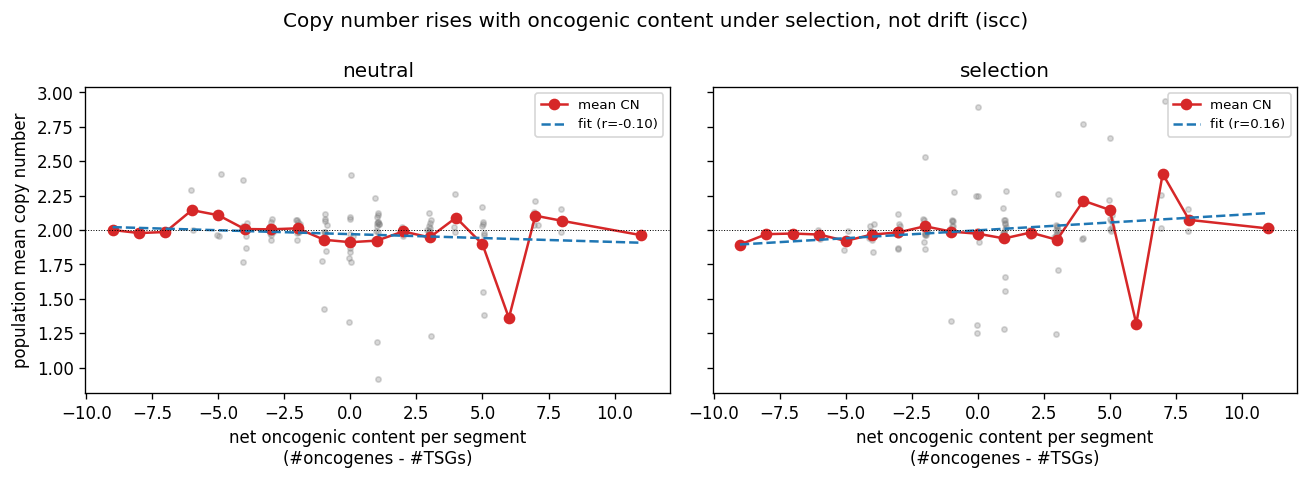
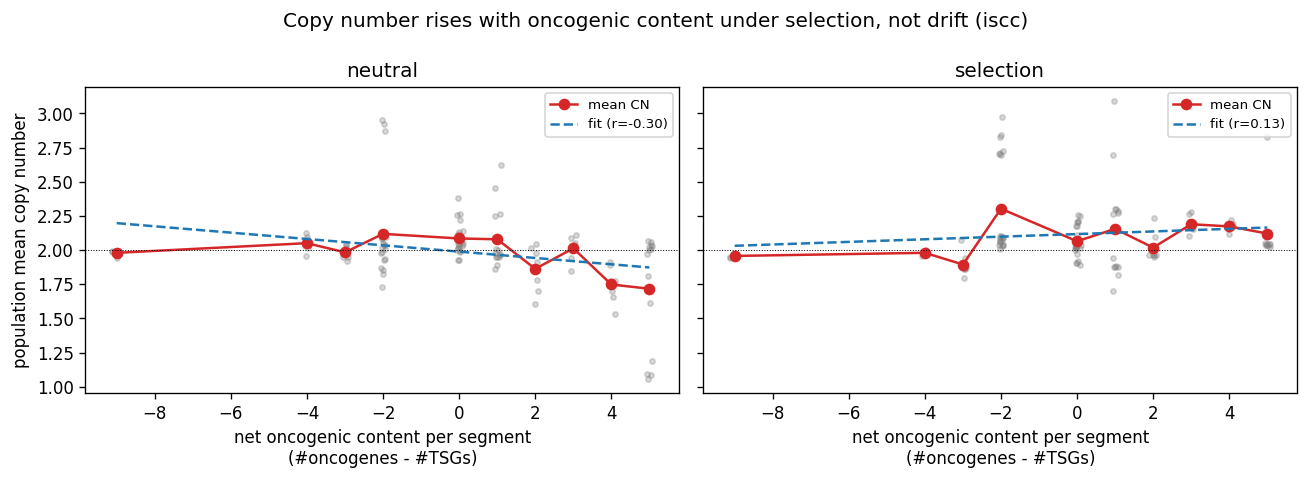
validation: regenerate assay figures for the crowding fix
Re-run the assay data-generation validations against the density-dependent crowding
engine and regenerate their manuscript figures. Config touch-ups where the capped
tumour changed the signal:

- cna: emit CNA-heavy events (cnv_prob 0.8) and stronger selection (driver_effects
  1.6) so the copy-number selection signature is measurable -- selection now
  amplifies oncogene-rich segments (corr +0.14) vs neutral (~-0.30). Well-mixed
  (carrying_capacity=None) for an unbounded selective population, as in test_cna.
- treatment: carrying_capacity 3 -> 8 (the crowding death ramp is steep at very
  small K, so K=3 drove even the untreated tumour extinct). Story restored: none
  grows (~190), continuous eradicates (0), adaptive controls (~35) with ~half the
  drug (434 vs 899 dosed steps).
- dna / scrna_snv / sampling: seed a founder cluster (initial_cancer_cells=5) so the
  tumour establishes; signals hold (HG002/DLP coverage fits; scRNA SNV detection
  rate falls with obs_fidelity; biopsy clone/liquid panels).
- snv (1/f R^2=0.98) and scrna (PBMC3k fit) and visium (Moran's I round-trip) needed
  no config change (snv/scrna inherit initial_cancer_cells from example_config.yaml).

diff --git a/validation/validate_cna.py b/validation/validate_cna.py
@@ -26,10 +26,15 @@ SEEDS = range(8)
 STEPS = 1500
 
 GENOME = {"n_segments": 16, "segment_size": 60}
-DEME = {"carrying_capacity": 6}
+# well-mixed (no crowding ceiling): this validation isolates the CNA *selection* signature (oncogene-
+# rich segments amplified under selection), which needs an unbounded growing population with many
+# generations of selection, not spatial capping (DESIGN_crowding.md well-mixed mode; cf. test_cna).
+DEME = {"carrying_capacity": None}
 SPATIAL = {"grid_size": 25, "structure_radius": 0}
+# CNA-heavy events (cnv_prob 0.8) so the copy-number selection signature is measurable — this
+# validation is about CNA, so most mutating events should be copy-number changes.
 CANCER = {"division_rate": 0.4, "death_rate": 0.02, "max_birth_rate": 0.95,
-          "mutation_rate": 0.7, "dispersal_rate": 0.2}
+          "mutation_rate": 0.7, "dispersal_rate": 0.2, "snv_prob": 0.2, "cnv_prob": 0.8}
 
 
 def _selection(driver_effects):
@@ -47,7 +52,7 @@ def _grow(driver_effects, seed):
 
 
 def main():
-    regimes = {"neutral": 1.0, "selection": 1.5}
+    regimes = {"neutral": 1.0, "selection": 1.6}
     results = {}
     print(f"{'regime':>10} | {'corr(CN, net-onc)':>17} | {'slope':>8} | n_seg")
     for name, eff in regimes.items():

diff --git a/validation/validate_sampling.py b/validation/validate_sampling.py
@@ -32,7 +32,7 @@ CANCER = {"division_rate": 0.5, "death_rate": 0.02, "max_birth_rate": 0.95,
 SELECTION = {"prop_driver": 0.2, "prop_dispersal": 0.3,
              "prop_immune_resistance": 0.1, "prop_treatment_resistance": 0.1}
 SPATIAL = {"grid_size": 28, "structure_radius": 5, "immune_density": 0.2}
-DEME = {"carrying_capacity": 10}
+DEME = {"carrying_capacity": 10, "initial_cancer_cells": 5}
 
 
 def build_mixed_tumor(seed, steps):
@@ -54,7 +54,7 @@ def build_cancer_tumor(seed, steps):
     t = GenotypeTumor(
         seed=seed, genome_params=GENOME,
         cancer_cell_params={**CANCER, "mutation_rate": 0.5, "dispersal_rate": 0.45},
-        deme_params={"carrying_capacity": 4},
+        deme_params={"carrying_capacity": 4, "initial_cancer_cells": 5},
         spatial_params={"grid_size": 50, "structure_radius": 0, "immune_density": 0.0},
         selection_params=SELECTION)
     t.grow(steps, seed=seed)

diff --git a/validation/validate_scrna_snv.py b/validation/validate_scrna_snv.py
@@ -36,7 +36,7 @@ def grow(seed=1, steps=700):
     cancer = {"division_rate": 0.4, "death_rate": 0.02, "max_birth_rate": 0.95,
               "mutation_rate": 0.6, "dispersal_rate": 0.2, "snv_prob": 0.7, "cnv_prob": 0.3}
     t = GenotypeTumor(seed=seed, genome_params=genome, selection_params=sel,
-                      cancer_cell_params=cancer, deme_params={"carrying_capacity": 8},
+                      cancer_cell_params=cancer, deme_params={"carrying_capacity": 8, "initial_cancer_cells": 5},
                       spatial_params={"grid_size": 20, "structure_radius": 0})
     t.grow(steps, seed=seed)
     return t

diff --git a/validation/validate_treatment.py b/validation/validate_treatment.py
@@ -28,7 +28,9 @@ BURN_IN = 300
 TREAT = 900
 
 GENOME = {"n_segments": 6, "segment_size": 100}
-DEME = {"carrying_capacity": 3}
+# K>=~6: with density-dependent crowding (DESIGN_crowding.md) the death ramp is steep at very small
+# K, so K=3 would drive even the untreated tumour extinct; K=8 gives a persistent tumour to treat.
+DEME = {"carrying_capacity": 8, "initial_cancer_cells": 5}
 SPATIAL = {"grid_size": 15, "n_structures": 1, "structure_radius": 0}
 # fully sensitive tumor so the therapy response is clean
 SELECTION = {"prop_driver": 0.1, "prop_dispersal": 0.0, "prop_immune_resistance": 0.0,

diff --git a/validation/validate_dna.py b/validation/validate_dna.py
@@ -46,7 +46,7 @@ sys.path.insert(0, os.path.join(REPO, "validation", "data"))
 import build_dna_reference as B  # noqa: E402  (reducer + cache loader)
 
 GENOME = {"n_segments": 24, "segment_size": 40}            # ~960 loci
-DEME = {"carrying_capacity": 8}
+DEME = {"carrying_capacity": 8, "initial_cancer_cells": 5}
 SPATIAL = {"grid_size": 28, "structure_radius": 0}
 CANCER = {"division_rate": 0.4, "death_rate": 0.02, "max_birth_rate": 0.95,
           "mutation_rate": 0.8, "dispersal_rate": 0.2}
